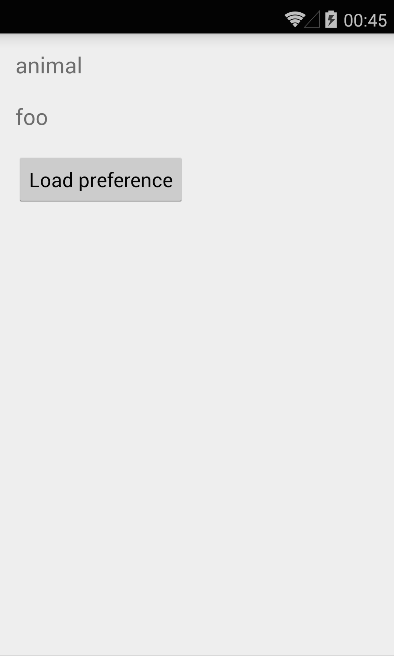
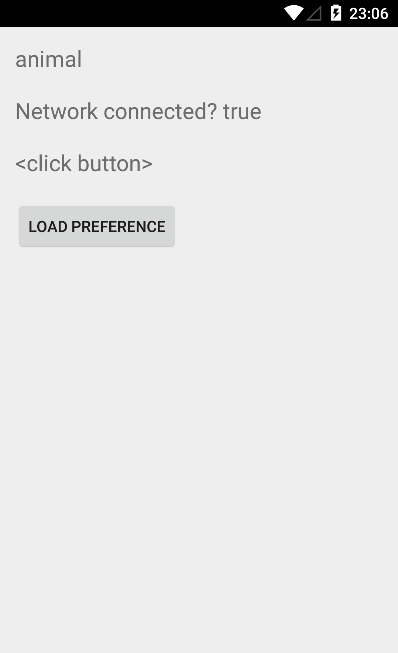
Nested dependencies demo

Changed region(s): [[0.0305, 0.1531, 0.6701, 0.3063], [0.0, 0.0, 1.0, 0.1225], [0.0609, 0.3369, 0.4264, 0.3675]]

diff --git a/app/src/main/java/net/grzechocinski/android/dagger2example/home/HomeActivity.java b/app/src/main/java/net/grzechocinski/android/dagger2example/home/HomeActivity.java
@@ -11,7 +11,8 @@ import java.util.List;
 import javax.inject.Inject;
 import net.grzechocinski.android.dagger2example.D2EApplication;
 import net.grzechocinski.android.dagger2example.R;
-import net.grzechocinski.android.dagger2example.internal.utils.D2ECollectionUtils;
+import net.grzechocinski.android.dagger2example.utils.D2ECollectionUtils;
+import net.grzechocinski.android.dagger2example.utils.NetworkStateManager;
 
 public class HomeActivity extends FragmentActivity {
 
@@ -20,11 +21,17 @@ public class HomeActivity extends FragmentActivity {
     @Inject
     SharedPreferences sharedPreferences;
 
+    @Inject
+    NetworkStateManager networkStateManager;
+
     @InjectView(R.id.d2e_id_tv_pref)
     TextView preferenceValueTextView;
 
     @InjectView(R.id.d2e_id_tv_util)
     TextView utilOutputTextView;
+
+    @InjectView(R.id.d2e_id_tv_network_state)
+    TextView networkStateTextView;
 
     @InjectView(R.id.d2e_id_btn_load_preference)
     Button button;
@@ -51,5 +58,8 @@ public class HomeActivity extends FragmentActivity {
         //Method reference example
         List<String> sortedAscending = d2EStringUtils.toSortedList(String::compareTo, "zombie", "dog", "animal");
         utilOutputTextView.setText(sortedAscending.get(0));
+
+        //Custom class (NetworkStateManager) with nested dependencies provided by constructor
+        networkStateTextView.setText(getString(R.string.network_text, networkStateManager.isConnectedOrConnecting()));
     }
 }

diff --git a/app/src/main/java/net/grzechocinski/android/dagger2example/internal/di/SystemServicesModule.java b/app/src/main/java/net/grzechocinski/android/dagger2example/internal/di/SystemServicesModule.java
@@ -1,11 +1,15 @@
 package net.grzechocinski.android.dagger2example.internal.di;
 
 import android.app.Application;
+import android.content.Context;
 import android.content.SharedPreferences;
+import android.net.ConnectivityManager;
 import android.preference.PreferenceManager;
+import android.support.v4.net.ConnectivityManagerCompat;
 import dagger.Module;
 import dagger.Provides;
 import javax.inject.Singleton;
+import net.grzechocinski.android.dagger2example.utils.NetworkStateManager;
 
 @Module
 public class SystemServicesModule {
@@ -20,5 +24,18 @@ public class SystemServicesModule {
     @Singleton
     SharedPreferences providePreferenceManager() {
         return PreferenceManager.getDefaultSharedPreferences(application);
+    }
+
+    @Provides
+    @Singleton
+    ConnectivityManager provideConnectivityManager() {
+        return (ConnectivityManager) application.getSystemService(Context.CONNECTIVITY_SERVICE);
+    }
+
+    @Provides
+    @Singleton
+    //Method parameter injected by Dagger2
+    NetworkStateManager provideNetworkStateManager(ConnectivityManager connectivityManagerCompat) {
+        return new NetworkStateManager(connectivityManagerCompat);
     }
 }

diff --git a/app/src/main/java/net/grzechocinski/android/dagger2example/utils/NetworkStateManager.java b/app/src/main/java/net/grzechocinski/android/dagger2example/utils/NetworkStateManager.java
@@ -1,0 +1,18 @@
+package net.grzechocinski.android.dagger2example.utils;
+
+import android.net.ConnectivityManager;
+import android.net.NetworkInfo;
+
+public class NetworkStateManager {
+
+    private final ConnectivityManager connectivityManager;
+
+    public NetworkStateManager(ConnectivityManager connectivityManager) {
+        this.connectivityManager = connectivityManager;
+    }
+
+    public boolean isConnectedOrConnecting(){
+        NetworkInfo activeNetworkInfo = connectivityManager.getActiveNetworkInfo();
+        return activeNetworkInfo.isConnectedOrConnecting();
+    }
+}

diff --git a/app/src/main/java/net/grzechocinski/android/dagger2example/internal/di/D2EComponent.java b/app/src/main/java/net/grzechocinski/android/dagger2example/internal/di/D2EComponent.java
@@ -6,7 +6,7 @@ import lombok.AccessLevel;
 import lombok.NoArgsConstructor;
 import net.grzechocinski.android.dagger2example.D2EApplication;
 import net.grzechocinski.android.dagger2example.home.HomeActivity;
-import net.grzechocinski.android.dagger2example.internal.utils.D2ECollectionUtils;
+import net.grzechocinski.android.dagger2example.utils.D2ECollectionUtils;
 
 @Singleton
 @Component(modules = {SystemServicesModule.class, D2EUtilsModule.class})

diff --git a/app/src/main/java/net/grzechocinski/android/dagger2example/internal/di/D2EUtilsModule.java b/app/src/main/java/net/grzechocinski/android/dagger2example/internal/di/D2EUtilsModule.java
@@ -3,7 +3,7 @@ package net.grzechocinski.android.dagger2example.internal.di;
 import dagger.Module;
 import dagger.Provides;
 import javax.inject.Singleton;
-import net.grzechocinski.android.dagger2example.internal.utils.D2ECollectionUtils;
+import net.grzechocinski.android.dagger2example.utils.D2ECollectionUtils;
 
 @Module
 public class D2EUtilsModule {

diff --git a/app/src/main/java/net/grzechocinski/android/dagger2example/utils/D2ECollectionUtils.java b/app/src/main/java/net/grzechocinski/android/dagger2example/utils/D2ECollectionUtils.java
@@ -1,4 +1,4 @@
-package net.grzechocinski.android.dagger2example.internal.utils;
+package net.grzechocinski.android.dagger2example.utils;
 
 import java.util.Arrays;
 import java.util.Collections;
